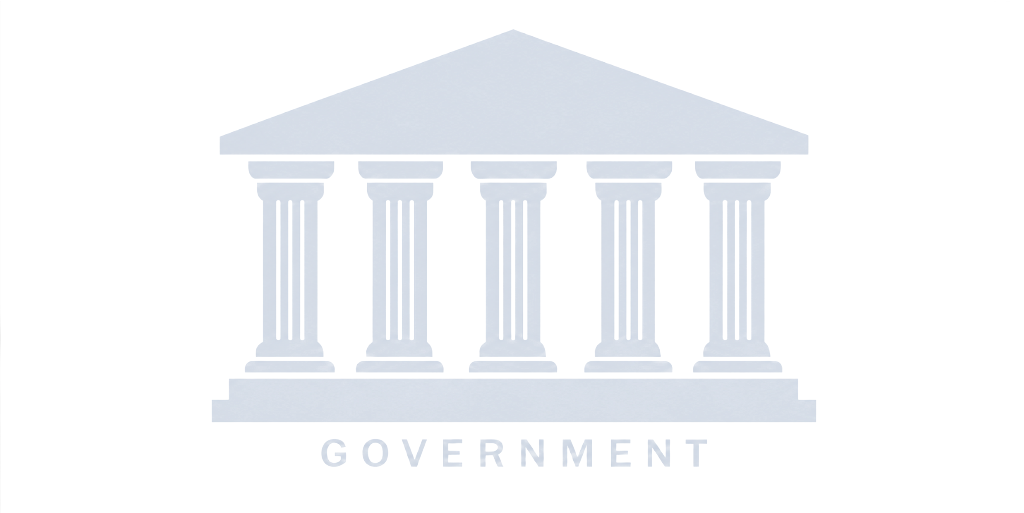
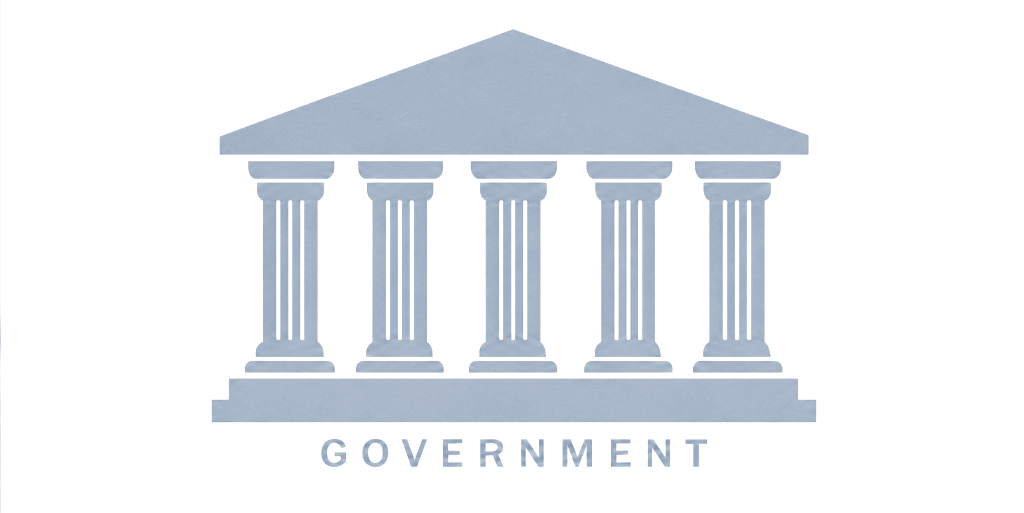
feat(watermark): expand watermark to full-page grand scale with true transparency across all layouts including assistant page background

Changed region(s): [[0.1875, 0.0624, 0.8125, 0.9357]]

diff --git a/frontend/src/pages/public/SchemeAssistantPage.jsx b/frontend/src/pages/public/SchemeAssistantPage.jsx
@@ -17,7 +17,6 @@ import Card from '../../components/common/Card';
 import Badge from '../../components/common/Badge';
 import Button from '../../components/common/Button';
 import LoadingSpinner from '../../components/common/LoadingSpinner';
-import GlobalWatermark from '../../components/common/GlobalWatermark';
 import api from '../../services/api';
 
 const SUGGESTED_QUERIES = [
@@ -188,10 +187,7 @@ const SchemeAssistantPage = () => {
       {/* Main Chat Container */}
       <div className="bg-white/40 backdrop-blur-2xs rounded-2xl border border-gov-border/80 shadow-subtle flex flex-col h-[580px] overflow-hidden">
         {/* Chat Feed */}
-        <div className="flex-1 p-4 sm:p-6 overflow-y-auto space-y-5 bg-transparent relative">
-          {/* Centered specifically inside the chat message display area */}
-          <GlobalWatermark size="w-[85%] max-w-2xl max-h-[60vh]" opacity="opacity-85" />
-          <div className="relative z-10 space-y-5">
+        <div className="flex-1 p-4 sm:p-6 overflow-y-auto space-y-5 bg-transparent">
           {messages.map((msg, index) => {
             const isUser = msg.role === 'user';
             return (
@@ -283,7 +279,6 @@ const SchemeAssistantPage = () => {
           )}
 
           <div ref={messagesEndRef} />
-          </div>
         </div>
 
         {/* Suggested Queries Chips (Quick Click) */}

diff --git a/frontend/src/components/common/GlobalWatermark.jsx b/frontend/src/components/common/GlobalWatermark.jsx
@@ -3,18 +3,18 @@ import React from 'react';
 /**
  * GlobalWatermark Component
  *
- * Renders the official government building watermark positioned at the exact horizontal
- * and vertical centre of the main content area with responsive scaling, non-blocking
- * pointer events, and clear visibility matching the official government reference.
+ * Renders the official government building watermark positioned at the center
+ * of the page with large, responsive scaling, transparent background, and soft
+ * visibility matching real-world government applications.
  */
 const GlobalWatermark = ({
   className = '',
-  opacity = 'opacity-85',
-  size = 'w-[950px] max-w-[92vw] lg:w-[1050px] max-h-[82vh]',
+  opacity = 'opacity-[0.18]',
+  size = 'w-[1100px] max-w-[95vw] lg:w-[1300px] xl:w-[1450px] max-h-[85vh]',
 }) => {
   return (
     <div
-      className={`absolute inset-0 pointer-events-none z-0 flex items-center justify-center select-none overflow-hidden ${className}`}
+      className={`fixed inset-0 pointer-events-none z-0 flex items-center justify-center select-none overflow-hidden ${className}`}
       aria-hidden="true"
     >
       <img

diff --git a/frontend/src/layouts/PublicLayout.jsx b/frontend/src/layouts/PublicLayout.jsx
@@ -1,22 +1,20 @@
 import React from 'react';
-import { Outlet, useLocation } from 'react-router-dom';
+import { Outlet } from 'react-router-dom';
 import Navbar from '../components/navigation/Navbar';
 import GlobalWatermark from '../components/common/GlobalWatermark';
 
 const PublicLayout = () => {
-  const location = useLocation();
-  // On Scheme Assistant, the watermark is specifically centered inside the chat message display area
-  const isAssistantPage = location.pathname.startsWith('/assistant');
-
   return (
     <div className="min-h-screen flex flex-col bg-gov-bg relative overflow-x-hidden">
-      <Navbar />
-      <main className="flex-1 relative min-h-[calc(100vh-4rem)] flex flex-col">
-        {!isAssistantPage && <GlobalWatermark />}
-        <div className="relative z-10 flex-1 flex flex-col">
+      {/* Global Background Watermark */}
+      <GlobalWatermark />
+
+      <div className="relative z-10 flex flex-col min-h-screen">
+        <Navbar />
+        <main className="flex-1 flex flex-col">
           <Outlet />
-        </div>
-      </main>
+        </main>
+      </div>
     </div>
   );
 };

diff --git a/frontend/src/layouts/UserLayout.jsx b/frontend/src/layouts/UserLayout.jsx
@@ -7,15 +7,17 @@ import GlobalWatermark from '../components/common/GlobalWatermark';
 const UserLayout = () => {
   return (
     <div className="min-h-screen flex flex-col bg-gov-bg relative overflow-x-hidden">
-      <Navbar />
-      <div className="flex-1 flex flex-col md:flex-row max-w-7xl w-full mx-auto relative min-h-[calc(100vh-4rem)]">
-        <UserSidebar />
-        <main className="flex-1 p-4 sm:p-6 lg:p-8 overflow-y-auto relative min-h-[calc(100vh-4rem)] flex flex-col">
-          <GlobalWatermark />
-          <div className="relative z-10 flex-1">
+      {/* Global Background Watermark */}
+      <GlobalWatermark />
+
+      <div className="relative z-10 flex flex-col min-h-screen">
+        <Navbar />
+        <div className="flex-1 flex flex-col md:flex-row max-w-7xl w-full mx-auto">
+          <UserSidebar />
+          <main className="flex-1 p-4 sm:p-6 lg:p-8 overflow-y-auto">
             <Outlet />
-          </div>
-        </main>
+          </main>
+        </div>
       </div>
     </div>
   );

diff --git a/frontend/src/layouts/AdminLayout.jsx b/frontend/src/layouts/AdminLayout.jsx
@@ -6,16 +6,15 @@ import GlobalWatermark from '../components/common/GlobalWatermark';
 const AdminLayout = () => {
   return (
     <div className="min-h-screen flex flex-col bg-slate-100 relative overflow-x-hidden">
-      {/* Single, unified Admin Navbar at the top */}
-      <AdminNavbar />
+      {/* Global Background Watermark */}
+      <GlobalWatermark />
 
-      {/* Main Content Area - Full width with max-w-7xl container */}
-      <main className="flex-1 max-w-7xl w-full mx-auto p-4 sm:p-6 lg:p-8 relative min-h-[calc(100vh-4rem)] flex flex-col">
-        <GlobalWatermark />
-        <div className="relative z-10 flex-1">
+      <div className="relative z-10 flex flex-col min-h-screen">
+        <AdminNavbar />
+        <main className="flex-1 max-w-7xl w-full mx-auto p-4 sm:p-6 lg:p-8">
           <Outlet />
-        </div>
-      </main>
+        </main>
+      </div>
     </div>
   );
 };
